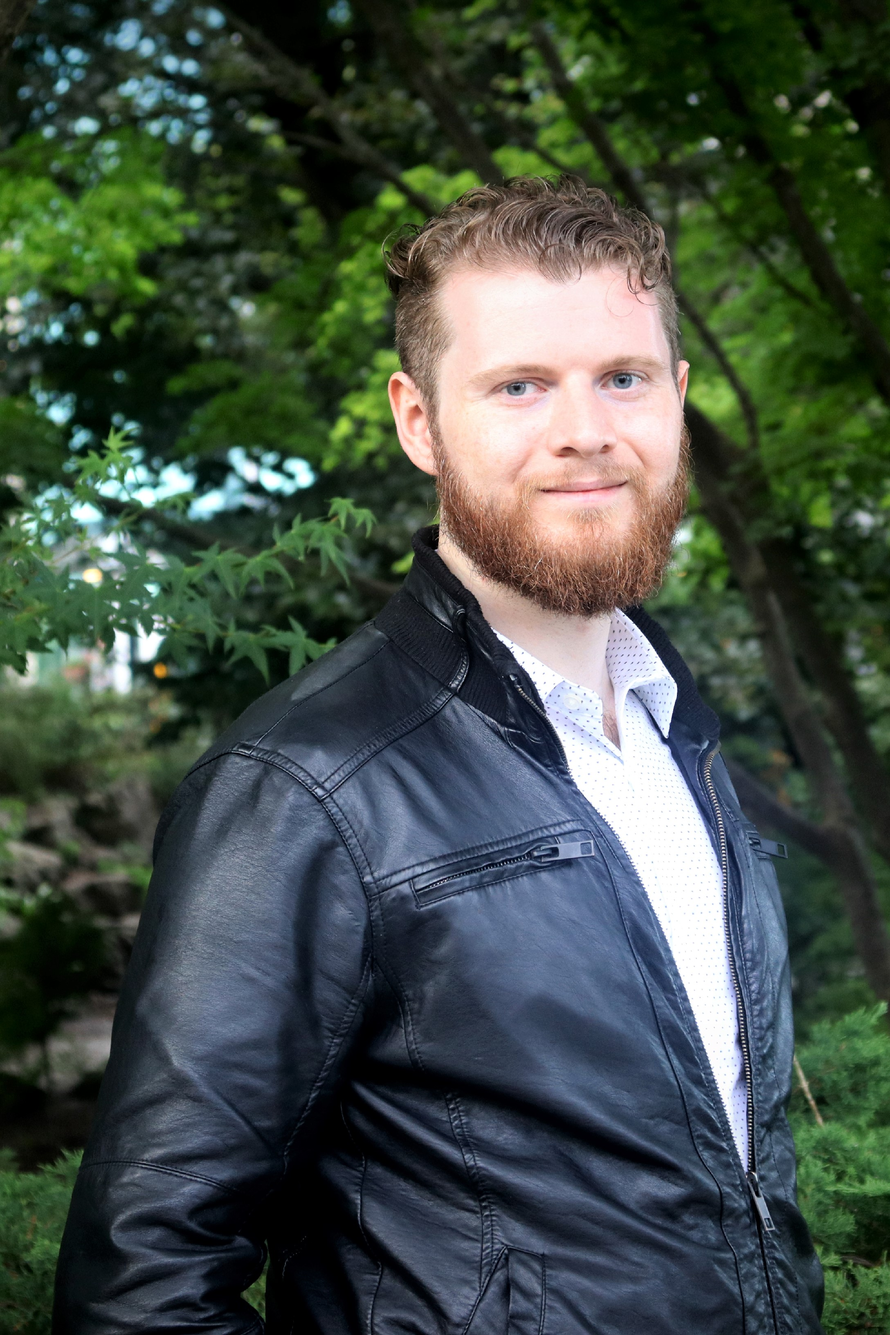
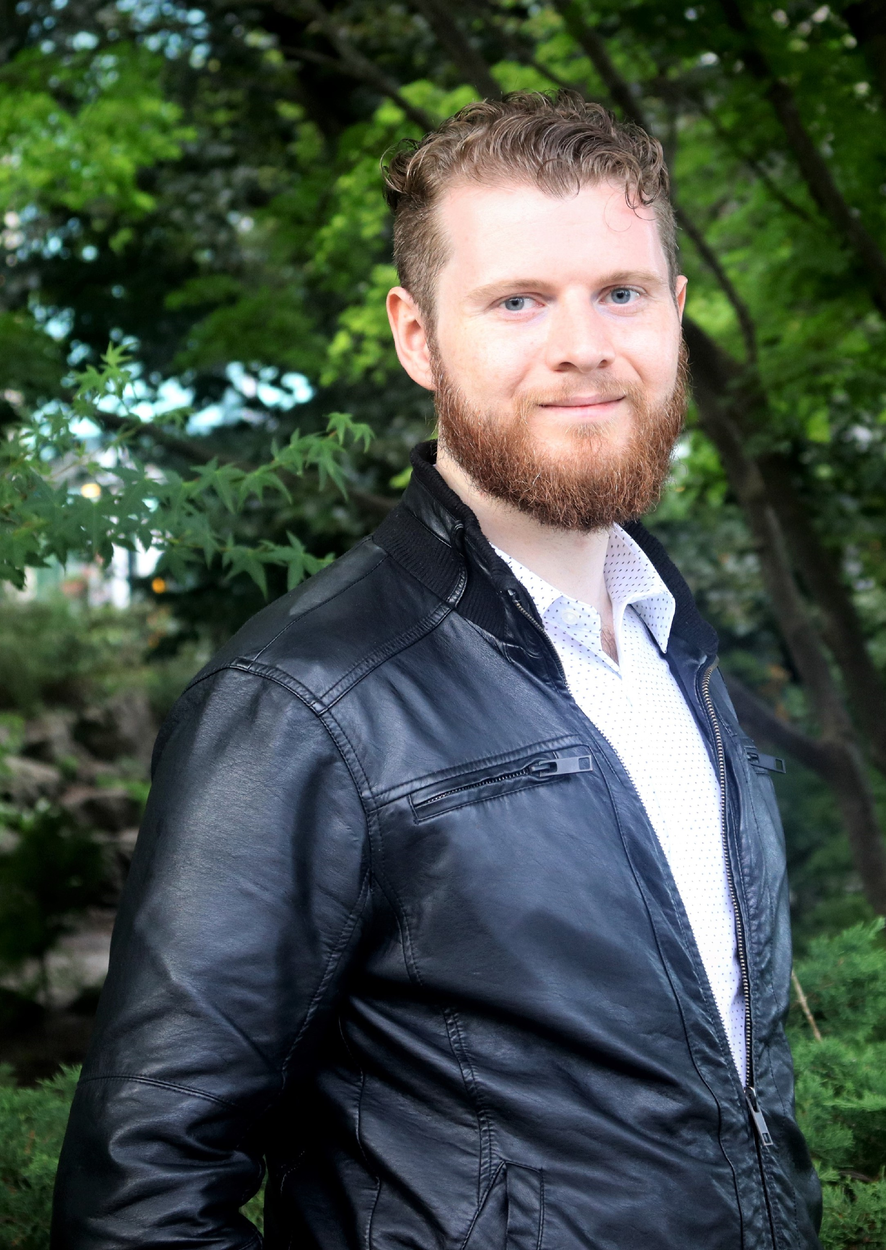
website is about done. Landing, About, and Contact pages are mostly done.

diff --git a/contact.html b/contact.html
@@ -1,0 +1,99 @@
+<!DOCTYPE html>
+<html lang="en">
+<head>
+  <meta name="viewport" content="width=device-width, initial-scale=1.0">
+  <meta charset="utf-8">
+  <link rel="stylesheet" href="style.css">
+  <title>Timothy Rollings</title>
+  <!--Ion Icons!-->
+  <script src="https://unpkg.com/ionicons@5.1.2/dist/ionicons.js"></script>
+</head>
+<body>
+  <div class="contact-grid">
+    <div class="nav">
+        <div class="logo">
+            <img src="/images/logo.png"></img>
+            <a href="/">Timothy Rollings</a>
+        </div>
+        <a class="button" href="#">Contact</a>
+        <a href="#work">Work</a>
+        <a href="#about">About</a>
+    </div>
+    <div class="intro">
+      <div class="title">Want to Talk?</div>
+      <p>If you've made it this far, I assume you'd like to talk.
+      I love connecting with others and helping anyway I can. However, after
+      receiving multiple emails, I decided to create a quick FAQs section to
+      help prevent anyone from wasting any time when reaching out to me. Given
+      you've considered the information below, if I still do not respond within
+      48 hours, feel free to shoot me another email: Timothy.A.Rollings@gmail.com.</p>
+    </div>
+    <div class="faqs">
+      <div class="title">FAQs</div>
+      <div class="accordian">
+        <div class="accordian-item" id="question1">
+          <a class="accordian-link" href="#question1">
+            Consulting/Contracting
+            <ion-icon class="arrow-down" name="chevron-down-outline"></ion-icon>
+            <ion-icon class="arrow-up" name="chevron-up-outline"></ion-icon>
+          </a>
+          <div class="answer">
+            <p>My minimum rate is $40 USD/hr, which is non-negotiable. This rate
+              may differ depending on the project, of course. I also do not
+              accept any forms of equity or debt.</p>
+            <p>If you give me details on what you're looking for, I'll let you
+              know if I can help, how much it will cost, and how long it might take.</p>
+            <p>For an idea of what I can do, feel free to take a look at my
+              LinkedIn or MathApplied.org, where I share a substantial amount
+              of my knowledge with others.</p>
+          </div>
+        </div>
+        <div class="accordian-item" id="question2">
+          <a class="accordian-link" href="#question2">
+            Help with mathematics and/or programming
+            <ion-icon class="arrow-down" name="chevron-down-outline"></ion-icon>
+            <ion-icon class="arrow-up" name="chevron-up-outline"></ion-icon>
+          </a>
+          <div class="answer">
+            <p>Helping others with mathematics and how to apply it is something
+              pretty close to my heart. As someone who strangly enjoys
+              struggling through math, I also understand how hard it can be.</p>
+            <p>If there's anything on MathApplied.org that you're struggling
+              with, feel free to reach out and we can set up a private
+              tutoring session.</p>
+            <p>My rate is $40 USD/hr. All I ask is that you be as prepared as
+              possible prior to the session.</p>
+          </div>
+        </div>
+        <div class="accordian-item" id="question3">
+          <a class="accordian-link" href="#question3">
+            Looking for a business partner
+            <ion-icon class="arrow-down" name="chevron-down-outline"></ion-icon>
+            <ion-icon class="arrow-up" name="chevron-up-outline"></ion-icon>
+          </a>
+          <div class="answer">
+            <p>While I love hearing about new opportunities, I also don't want to
+            waste your time. You're free to share any ideas, but it's often a no.</p>
+          </div>
+        </div>
+        <div class="final-accordian-item" id="question4">
+          <a class="accordian-link" href="#question4">
+            Looking for an employee
+            <ion-icon class="arrow-down" name="chevron-down-outline"></ion-icon>
+            <ion-icon class="arrow-up" name="chevron-up-outline"></ion-icon>
+          </a>
+          <div class="answer">
+            <p>I deeply appreciate your interest in hiring me. While I'll
+              definitely consider your offer, I really do enjoy being my own boss.</p>
+            <p>I won't say here what my expected salary is, but my consulting
+              rates should give an idea. I do not accept debt nor equity. I work
+              remotely already and I like it a lot. I would expect to remain
+              remote within any position I consider.</p>
+            <p>If you still feel I'd be interested, you're always free to email me.</P>
+          </div>
+        </div>
+      </div>
+    </div>
+  </div>
+</body>
+</html>

diff --git a/style.css b/style.css
@@ -235,29 +235,20 @@
   grid-area: img;
 }
 .my-img {
-  margin-top: 100px;
+  margin-top: 80px;
   margin-left: 30px;
   margin-right: 30px;
-  margin-bottom: 100px;
-  padding-left: 100px;
+}
+.my-img {
+  display: grid;
+  color: #303036; /*Jet Black*/
+  /*background-color: darkgrey;*/
+  justify-content: center;
+  align-items: center;
 }
 .my-img img {
-  width: 350px;
-  height: 525px;
-}
-.my-img .button{
-  width:200px;
-  height:40px;
-  display: inline-block;
-  line-height:40px;
-  text-align: center;
-  background-color: #1C1C1E;
-  font-family: helv-r;
-  font-size: 20px;
-  font-weight: bold;
-  text-transform: uppercase;
-  text-decoration: none;
-  color: #F5F5F5;
+  width: 400px;
+  height: 564.0978px;
 }
 
 .about-me {
@@ -267,7 +258,7 @@
   margin-top: 100px;
   margin-left: 30px;
   margin-right: 30px;
-  margin-bottom: 100px;
+  /*margin-bottom: 100px;*/
   width:650px;
   color: #303036; /*Jet Black*/
 }
@@ -354,6 +345,133 @@
 }
 /*End of simulation's CSS code.*/
 
+/*This portion of CSS code is for styling the contact page's content*/
+.intro {
+  grid-area: disc;
+}
+.intro {
+  margin-top: 100px;
+  margin-left: 100px;
+  margin-right: 100px;
+  margin-bottom: 30px;
+  /*background-color: lightgrey;*/
+  justify-content: middle;
+  align-items: middle;
+}
+.intro .title {
+  font-family:helv-r;
+  font-size: 31.25px;
+  font-weight:bold;
+  color: #303036; /*Jet Black*/
+}
+.intro p {
+  font-family:eaves-r;
+  font-size: 20px;
+  font-weight: 500;
+  color: #303036; /*Jet Black*/
+}
+.faqs {
+  grid-area: FAQs;
+}
+.faqs {
+  margin-top: 275px;
+  margin-left: 300px;
+  margin-right: 300px;
+  margin-bottom: 100px;
+  /*background-color: lightgrey;*/
+  justify-content: middle;
+  align-items: middle;
+}
+.faqs .title {
+  font-family:helv-r;
+  font-size: 25px;
+  font-weight:bold;
+  color: #303036; /*Jet Black*/
+}
+.faqs .accordian {
+  margin-top:15px;
+  /*padding: 10px;*/
+  /*border: 1px solid #A9A9B2;
+  border-width: 3px;
+  border-color: #A9A9B2;*/
+}
+.accordian-item {
+  padding: 0px;
+  border-top: 1px solid #A9A9B2;
+  border-left: 1px solid #A9A9B2;
+  border-right: 1px solid #A9A9B2;
+}
+.final-accordian-item {
+  padding: 0px;
+  border: 1px solid #A9A9B2;
+}
+.accordian-link {
+  padding:10px;
+  color: #303036; /*Jet Black*/
+  font-family:helv-r;
+  font-size: 20px;
+  font-weight: bold;
+  text-decoration: none;
+  width:100%;
+  display:flex;
+  align-items: center;
+  justify-content: space-between;
+}
+
+.accordian-link .arrow-up {
+  display: none;
+}
+/*.answer {
+  font-family:eaves-r;
+  color: #303036; /*Jet Black*/
+/*  font-size: 20px;
+  font-weight: 500;
+}*/
+.answer {
+  padding-left:10px;
+  max-height: 0;
+  overflow: hidden;
+  position: relative;
+  transition: max-height 700ms;
+}
+.answer::before {
+  content: "";
+  position: absolute;
+
+  width: 0.6rem;
+  height: 90%;
+  top: 50%;
+  left:0;
+  transform: translateY(-50%);
+
+}
+.answer p {
+  font-family:eaves-r;
+  font-size: 20px;
+  font-weight: 500;
+  color: #303036; /*Jet Black*/
+}
+.accordian-item:target .answer {
+  max-height:20rem;
+}
+.final-accordian-item:target .answer {
+  max-height:20rem;
+}
+.accordian-item:target .accordian-link .arrow-down {
+  display: none;
+}
+.accordian-item:target .accordian-link .arrow-up {
+  display: block;
+}
+.email {
+  grid-area: email;
+}
+.email {
+  margin-top:60px;
+  margin-left:-200px;
+}
+/*End of the contact page's CSS code.*/
+
 /*This portion of CSS code is for styling the footer section's content.*/
 .footer {
   grid-area: footer;
@@ -383,6 +501,19 @@
   grid-gap: 20px;
 }
 /*End of about me page grid container's CSS code.*/
+
+/*This portion of CSS code is for styling the contact page grid container.*/
+.contact-grid {
+  display: grid;
+  grid-template-areas:
+    'header header header header'
+    'disc disc disc disc'
+    'FAQs FAQs FAQs FAQs'
+    'email' 'email' 'email' 'email'
+    'footer footer footer footer';
+  grid-gap: 20px;
+}
+/*End of contact page grid container's CSS code.*/
 
 /* Misc. CSS code used in several parts of the website, such as buttons, */
 /* dynamic color changes based on scroll position, etc. */

diff --git a/index.html b/index.html
@@ -19,7 +19,7 @@
             <img src="/images/logo.png"></img>
             <a href="/">Timothy Rollings</a>
         </div>
-        <a class="button" href="#">Contact</a>
+        <a class="button" href="/contact.html">Contact</a>
         <a href="#work">Work</a>
         <a href="#about">About</a>
     </div>
@@ -29,7 +29,7 @@
           <div class="title-2">an entrepreneur and forever learner.</div>
           <div class="body">I'm an autodidact who loves helping others understand the world by bringing mathematics, data science, and machine learning together to solve problems.
           </div>
-          <div class="action button">Reach Out</div>
+          <div class="action button" /contact.html>Reach Out</div>
         </div>
     </div>
     <div class="sim">

diff --git a/about.html b/about.html
@@ -19,13 +19,12 @@
             <img src="/images/logo.png"></img>
             <a href="/">Timothy Rollings</a>
         </div>
-        <a class="button" href="#">Contact</a>
+        <a class="button" href="/contact.html">Contact</a>
         <a href="#work">Work</a>
         <a href="#about">About</a>
     </div>
     <div class="my-img">
       <img src="images/tim.jpg" alt="Me">
-      <a class="button" href="">Reach Out</a>
     </div>
     <div class="about-me">
       <div class="title">Who Am I?</div>
